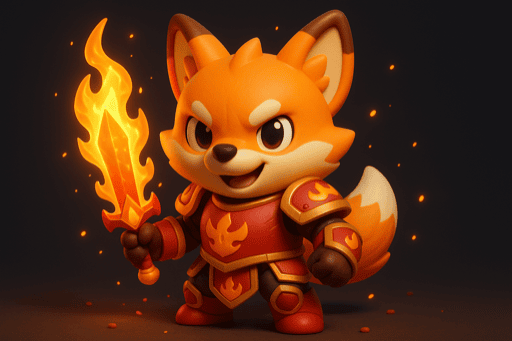
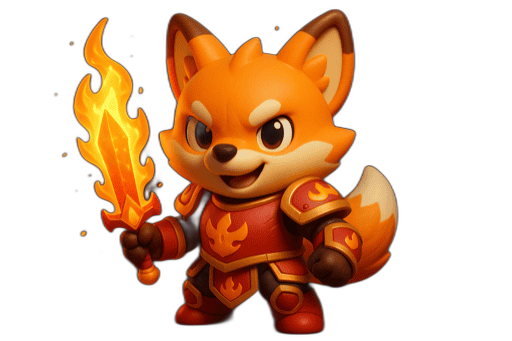
Transparent hero PNGs + dial back monster effect overload
Hero backgrounds:
- Removed dark backgrounds from all 6 heroes via rembg
- Removed ShaderMask + vignette from hero rendering (transparent PNGs)

Monster effect rebalancing (was white most of the time):
- Hit flash threshold: 0.7 → 0.93 (1 frame white instead of 5)
- Removed circle-based overlays (red tint, red pulse) that looked wrong
  on transparent PNGs — replaced with damage-reactive ColorFilter tint
  that subtly shifts toward red as monster takes damage
- Damage cracks: threshold 0.3 → 0.6, alpha reduced 50%
- Net result: monster is visible and colorful during combat, not buried
  under white/red overlays

diff --git a/lib/screens/brushing_screen.dart b/lib/screens/brushing_screen.dart
@@ -2531,14 +2531,23 @@ class _BrushingScreenState extends State<BrushingScreen>
     final effectiveSize = size * _monster.personality.sizeMultiplier;
 
     // Monster image: transparent PNGs — no ShaderMask needed
+    // At high damage, shift tint toward red to show the monster is hurt
+    final damageTint = damageProgress > 0.5
+        ? Color.lerp(
+            _monster.personality.tintColor,
+            Colors.red,
+            ((damageProgress - 0.5) * 1.5).clamp(0.0, 0.6),
+          )!
+        : _monster.personality.tintColor;
+    final damageTintStrength = _monster.personality.tintStrength +
+        (damageProgress > 0.5 ? (damageProgress - 0.5) * 0.2 : 0.0);
+
     Widget monsterImage = ColorFiltered(
-      colorFilter: _monster.hitRecoil > 0.7
-          // Tier 1: White flash on hit — sprite turns white for impact
+      colorFilter: _monster.hitRecoil > 0.93
+          // Tier 1: White flash on hit — 1-2 frames only, not overused
           ? const ColorFilter.mode(Colors.white, BlendMode.srcATop)
           : ColorFilter.mode(
-              _monster.personality.tintColor.withValues(
-                alpha: _monster.personality.tintStrength,
-              ),
+              damageTint.withValues(alpha: damageTintStrength.clamp(0.0, 0.35)),
               BlendMode.overlay,
             ),
       child: Image.asset(
@@ -2718,31 +2727,17 @@ class _BrushingScreenState extends State<BrushingScreen>
                         ),
                       ),
                     ),
-                    // Health-dependent color tinting
-                    if (damageProgress > 0.5)
-                      Positioned(
-                        bottom: 10,
-                        child: Container(
-                          width: size,
-                          height: size,
-                          decoration: BoxDecoration(
-                            shape: BoxShape.circle,
-                            color: Colors.red.withValues(
-                              alpha: (damageProgress - 0.5) * 0.25,
-                            ),
-                          ),
-                        ),
-                      ),
-                    // Damage cracks
-                    if (damageProgress > 0.3)
+                    // (Circle overlays removed — don't match transparent PNGs)
+                    // Damage cracks (only at heavy damage, subtle)
+                    if (damageProgress > 0.6)
                       Positioned(
                         bottom: 10,
                         child: CustomPaint(
                           size: Size(size, size),
                           painter: _DamageCrackPainter(
                             progress: damageProgress,
-                            color: Colors.white,
-                            glowColor: damageProgress > 0.5
+                            color: Colors.white.withValues(alpha: 0.5),
+                            glowColor: damageProgress > 0.7
                                 ? _weapon.primaryColor
                                 : null,
                           ),
@@ -2757,21 +2752,7 @@ class _BrushingScreenState extends State<BrushingScreen>
                           painter: _MonsterOverlayPainter(animValue: breathT),
                         ),
                       ),
-                    // Red pulse overlay (> 70% damage)
-                    if (damageProgress > 0.7)
-                      Positioned(
-                        bottom: 10,
-                        child: Container(
-                          width: size,
-                          height: size,
-                          decoration: BoxDecoration(
-                            shape: BoxShape.circle,
-                            color: Colors.red.withValues(
-                              alpha: 0.1 + breathT * 0.2,
-                            ),
-                          ),
-                        ),
-                      ),
+                    // (Red pulse circle removed — replaced by damage-reactive tint on sprite)
                     // (White flash now handled by ColorFilter on the sprite itself)
                     // Boss crown glow + label
                     if (_isBossPhase) ...[
@@ -3060,34 +3041,8 @@ class _BrushingScreenState extends State<BrushingScreen>
                     isAttacking: _heroLunging,
                   ),
                 ),
-                ShaderMask(
-                  shaderCallback: (Rect bounds) {
-                    return RadialGradient(
-                      center: Alignment.center,
-                      radius: 0.85,
-                      colors: [Colors.white, Colors.white, Colors.transparent],
-                      stops: [0.0, 0.55, 1.0],
-                    ).createShader(bounds);
-                  },
-                  blendMode: BlendMode.dstIn,
-                  child: child!,
-                ),
-                // Subtle circular vignette overlay for extra softening
-                Container(
-                  width: size,
-                  height: size,
-                  decoration: BoxDecoration(
-                    shape: BoxShape.circle,
-                    gradient: RadialGradient(
-                      colors: [
-                        Colors.transparent,
-                        Colors.transparent,
-                        _hero.primaryColor.withValues(alpha: 0.08),
-                      ],
-                      stops: const [0.0, 0.5, 1.0],
-                    ),
-                  ),
-                ),
+                // Hero image (transparent PNGs — no ShaderMask needed)
+                child!,
                 // Weapon badge
                 Positioned(
                   right: -8,
